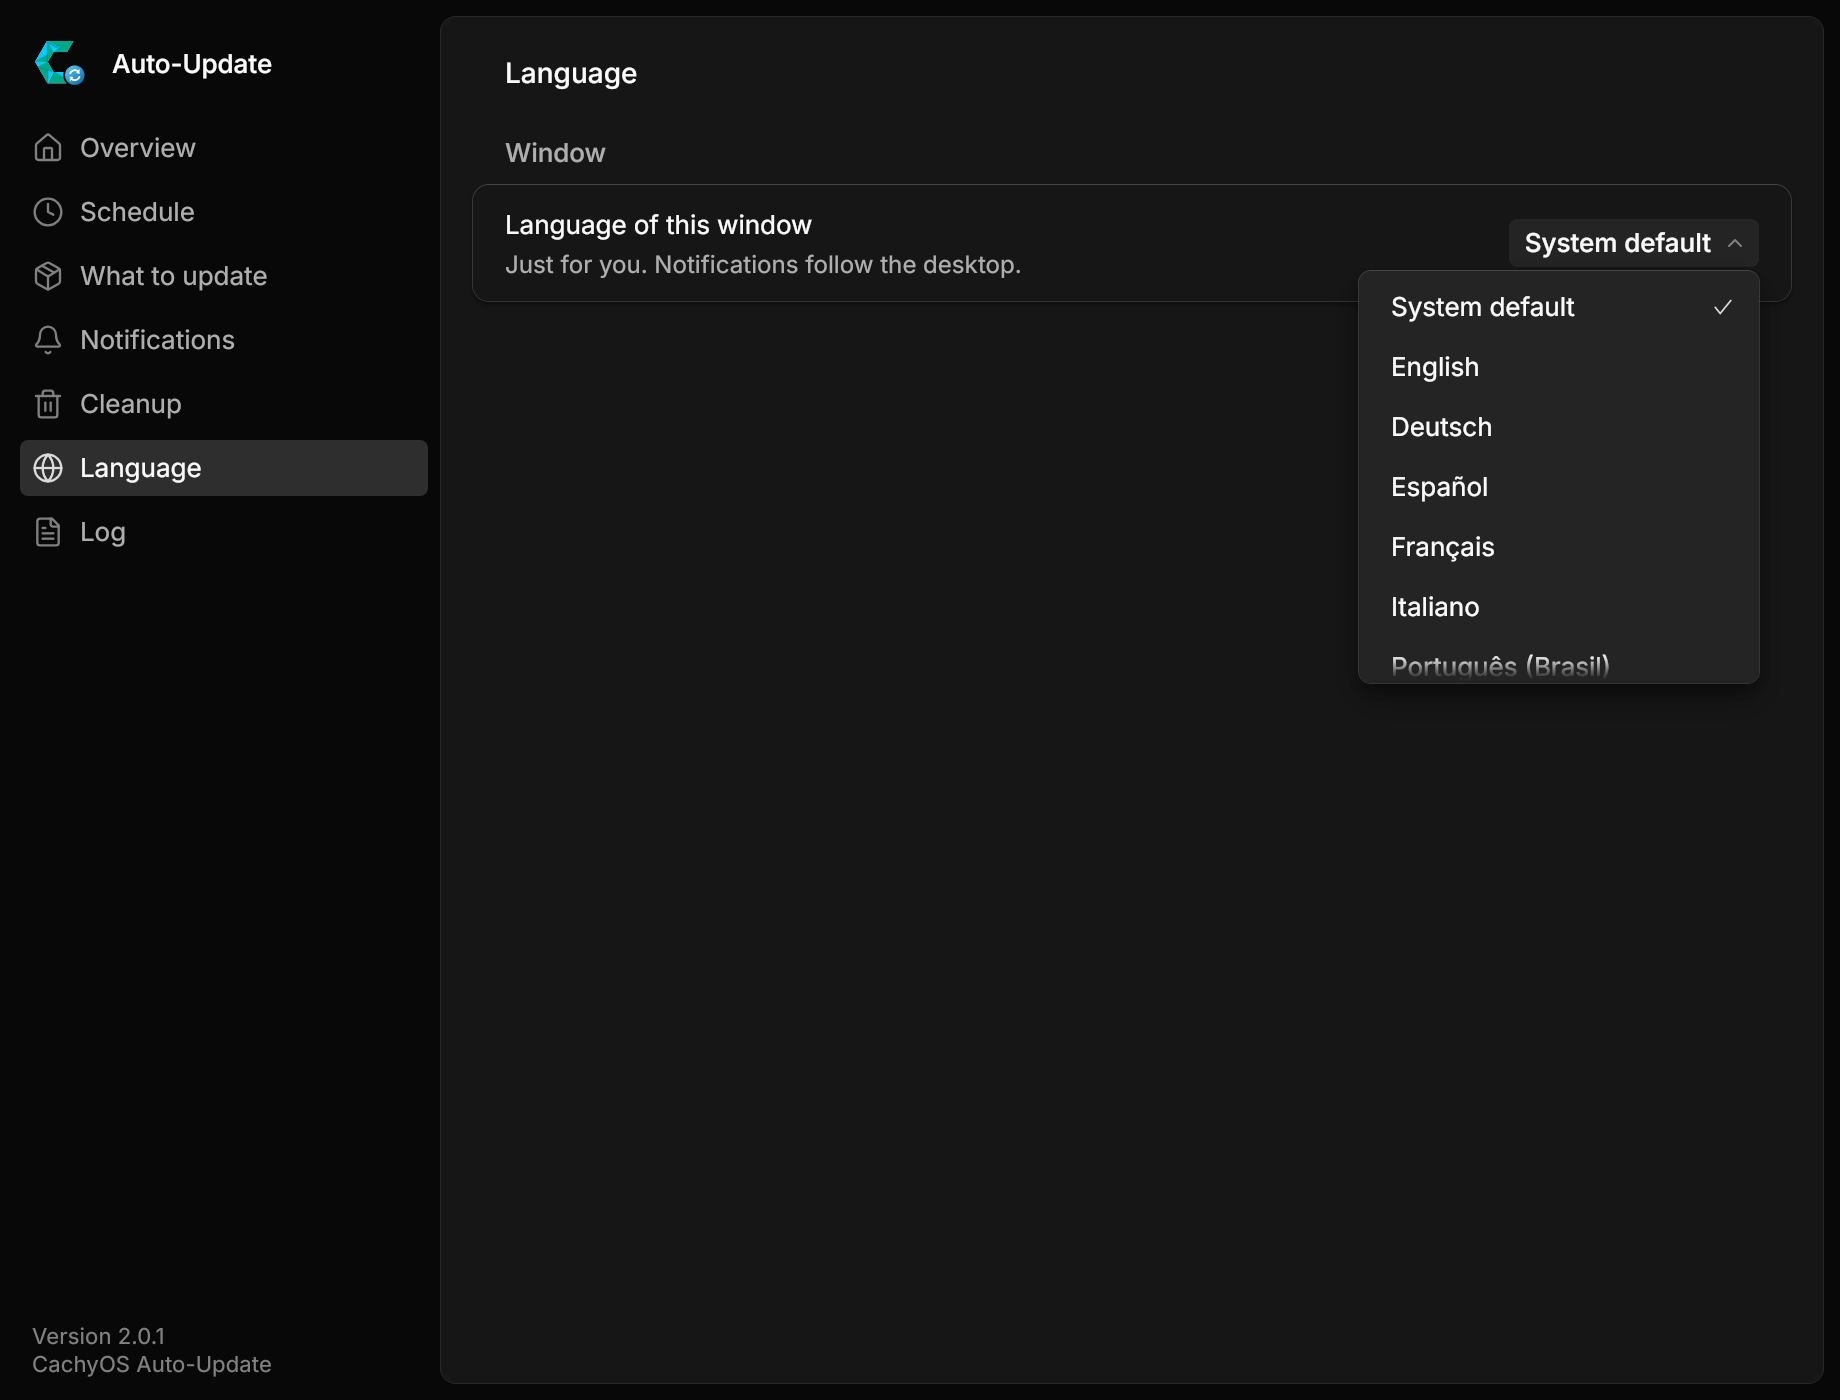
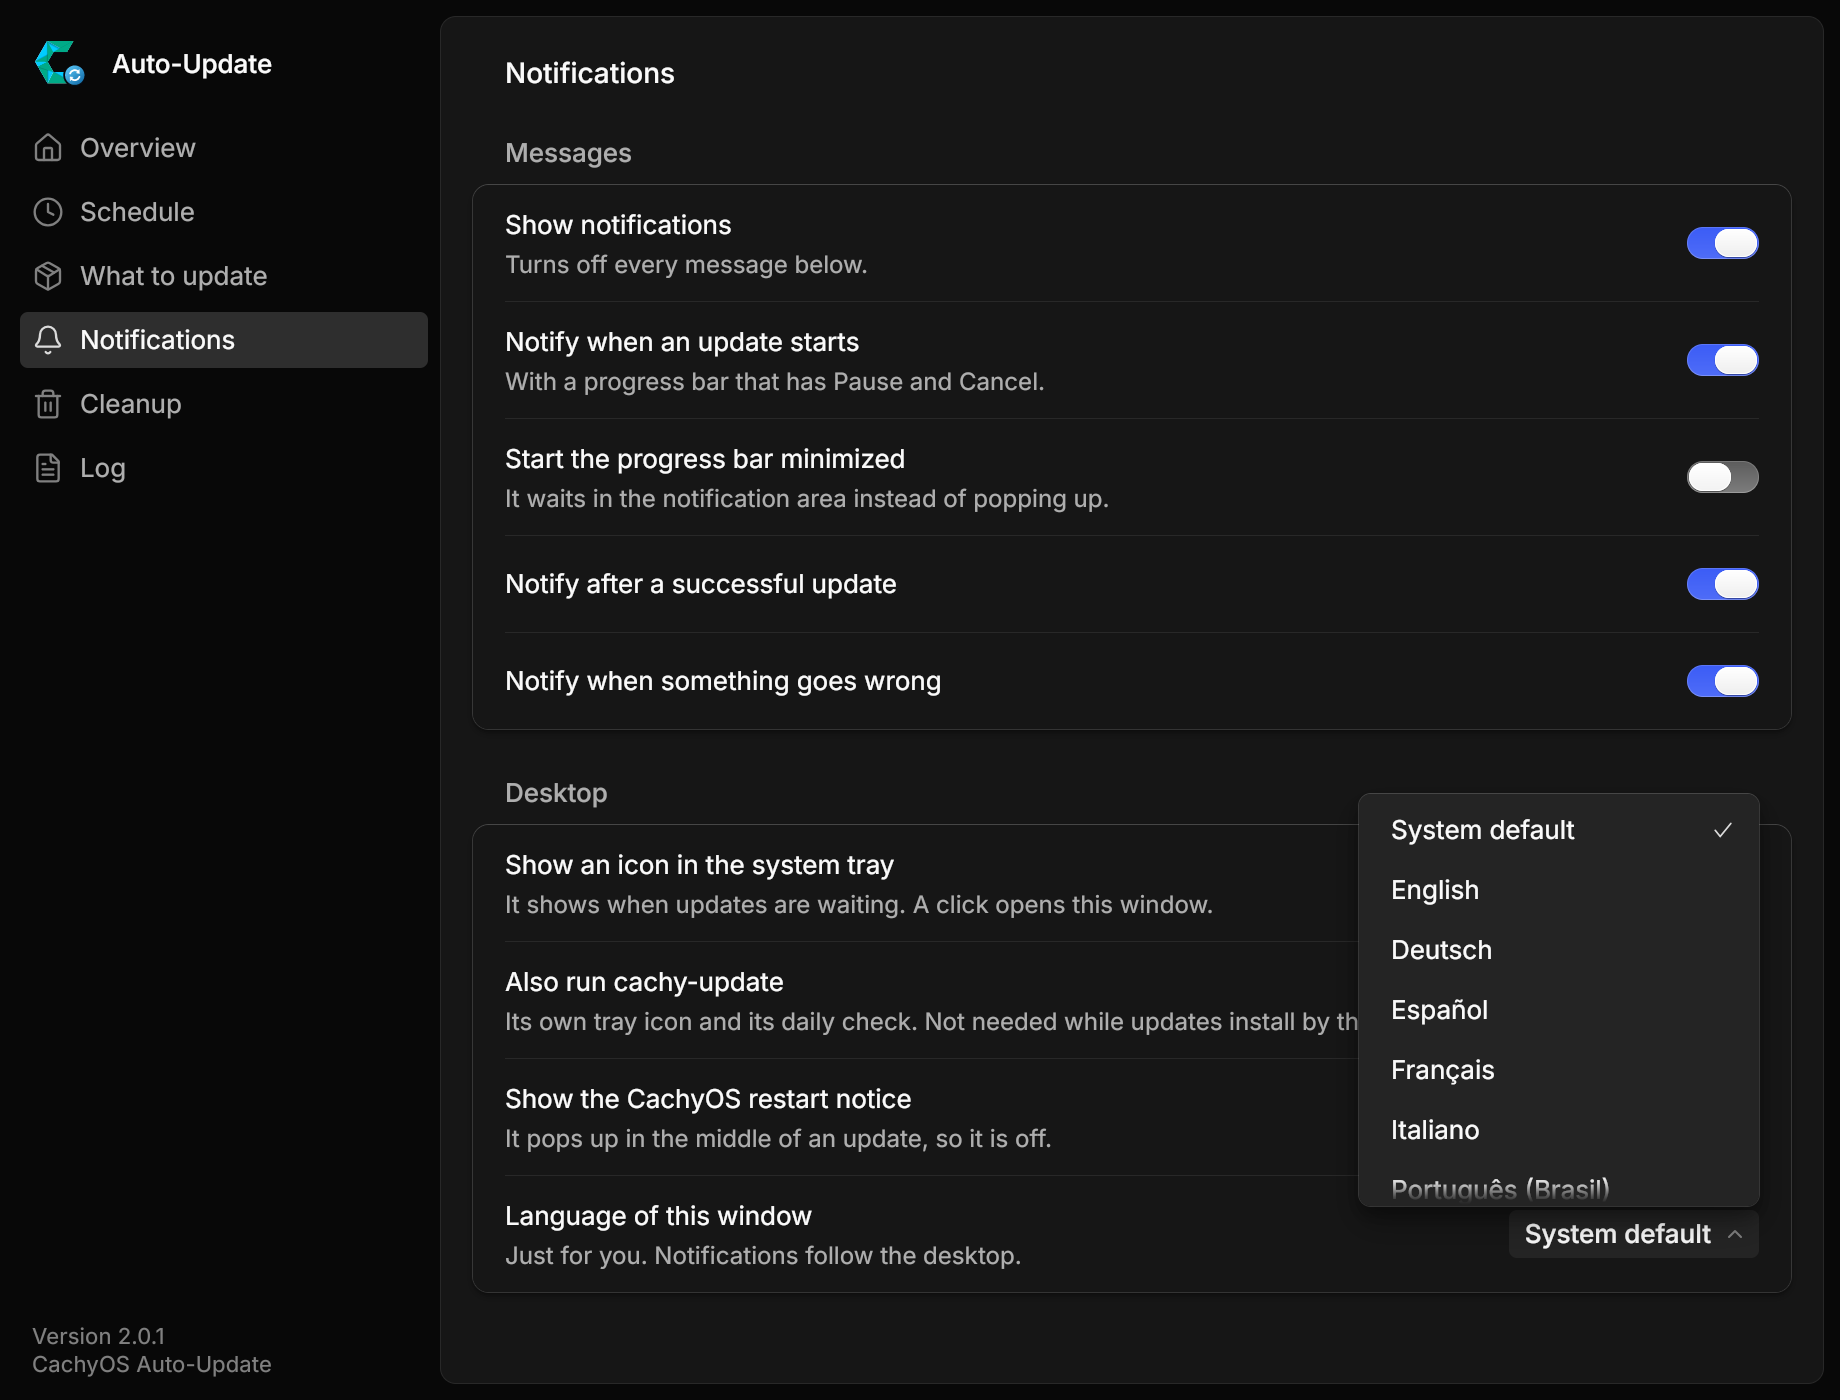
fix: polish the language picker

diff --git a/src/status.rs b/src/status.rs
@@ -187,13 +187,92 @@ pub fn interval_text(locale: &str, v: &str) -> String {
 /// A local date and time through strftime, in the locale LC_TIME names.
 /// Call `init_time_locale` once first.
 pub fn strftime(ts: u64, format: &str) -> String {
+    format_time(ts, format, None)
+}
+
+/// strftime in `locale`, or in the one LC_TIME names.
+fn format_time(ts: u64, format: &str, locale: Option<libc::locale_t>) -> String {
     let t = ts as libc::time_t;
     let mut tm: libc::tm = unsafe { std::mem::zeroed() };
     unsafe { libc::localtime_r(&t, &mut tm) };
     let Ok(fmt) = std::ffi::CString::new(format) else { return String::new() };
     let mut buf = [0u8; 128];
-    let n = unsafe { libc::strftime(buf.as_mut_ptr().cast(), buf.len(), fmt.as_ptr(), &tm) };
+    let (out, len, f) = (buf.as_mut_ptr().cast(), buf.len(), fmt.as_ptr());
+    let n = match locale {
+        Some(l) => unsafe { libc::strftime_l(out, len, f, &tm, l) },
+        None => unsafe { libc::strftime(out, len, f, &tm) },
+    };
     String::from_utf8_lossy(&buf[..n]).into_owned()
+}
+
+/// How the window shows dates.
+enum Dates {
+    /// In the locale of the environment.
+    Env,
+    /// In a locale of the language picked in the window.
+    Picked(libc::locale_t),
+    /// No locale of that language is installed: in numbers only, so the
+    /// weekday is not in another language.
+    Numbers,
+}
+
+// The locale is only used and freed with the lock held.
+unsafe impl Send for Dates {}
+
+static DATES: std::sync::Mutex<Dates> = std::sync::Mutex::new(Dates::Env);
+
+/// Shows dates in `lang` ("es", "pt_BR", ...) from now on, or in the locale
+/// of the environment again with `None`.
+pub fn set_date_language(lang: Option<&str>) {
+    let base = |l: &str| l.split(['_', '.', '@']).next().unwrap_or("").to_string();
+    let env = ["LC_ALL", "LC_TIME", "LANG"].iter().find_map(|v| std::env::var(v).ok().filter(|v| !v.is_empty()));
+    let env = env.map(|e| if e == "C" || e.starts_with("C.") || e == "POSIX" { "en".into() } else { base(&e) });
+    let dates = match lang {
+        None => Dates::Env,
+        // Keeps the region of the environment, es_MX for "es".
+        Some(l) if env.as_deref() == Some(base(l).as_str()) => Dates::Env,
+        Some(l) => date_locales(l)
+            .into_iter()
+            .find_map(|name| {
+                let name = std::ffi::CString::new(name).ok()?;
+                let loc = unsafe { libc::newlocale(libc::LC_TIME_MASK, name.as_ptr(), std::ptr::null_mut()) };
+                (!loc.is_null()).then_some(loc)
+            })
+            .map_or(Dates::Numbers, Dates::Picked),
+    };
+    let mut d = DATES.lock().unwrap_or_else(|e| e.into_inner());
+    if let Dates::Picked(old) = std::mem::replace(&mut *d, dates) {
+        unsafe { libc::freelocale(old) };
+    }
+}
+
+/// Locales to try for `lang`, most likely first.
+fn date_locales(lang: &str) -> Vec<String> {
+    let full = match lang {
+        "de" => "de_DE",
+        "en" => "en_US",
+        "es" => "es_ES",
+        "fr" => "fr_FR",
+        "it" => "it_IT",
+        "ja" => "ja_JP",
+        "ko" => "ko_KR",
+        "ru" => "ru_RU",
+        l => l,
+    };
+    let mut out = vec![format!("{full}.UTF-8")];
+    if lang == "en" {
+        out.push("C.UTF-8".into());
+    }
+    out
+}
+
+/// The weekday, date and time, for the window.
+pub fn date_time(ts: u64) -> String {
+    match *DATES.lock().unwrap_or_else(|e| e.into_inner()) {
+        Dates::Env => strftime(ts, "%a %x %H:%M"),
+        Dates::Picked(l) => format_time(ts, "%a %x %H:%M", Some(l)),
+        Dates::Numbers => strftime(ts, "%Y-%m-%d %H:%M"),
+    }
 }
 
 /// Dates follow the locale the program was started in.

diff --git a/gui/src/ui.rs b/gui/src/ui.rs
@@ -29,13 +29,11 @@ pub enum Pane {
     Updates,
     Notifications,
     Cleanup,
-    Language,
     Log,
 }
 
 impl Pane {
-    pub const ALL: [Pane; 7] =
-        [Pane::Overview, Pane::Schedule, Pane::Updates, Pane::Notifications, Pane::Cleanup, Pane::Language, Pane::Log];
+    pub const ALL: [Pane; 6] = [Pane::Overview, Pane::Schedule, Pane::Updates, Pane::Notifications, Pane::Cleanup, Pane::Log];
 
     pub fn title(self) -> &'static str {
         match self {
@@ -44,7 +42,6 @@ impl Pane {
             Pane::Updates => tr("What to update"),
             Pane::Notifications => tr("Notifications"),
             Pane::Cleanup => tr("Cleanup"),
-            Pane::Language => tr("Language"),
             Pane::Log => tr("Log"),
         }
     }
@@ -56,7 +53,6 @@ impl Pane {
             Pane::Updates => "nav-updates",
             Pane::Notifications => "nav-notifications",
             Pane::Cleanup => "nav-cleanup",
-            Pane::Language => "nav-language",
             Pane::Log => "nav-log",
         }
     }
@@ -69,7 +65,6 @@ impl Pane {
             Pane::Updates => &PACKAGE,
             Pane::Notifications => &BELL,
             Pane::Cleanup => &BROOM,
-            Pane::Language => &GLOBE,
             Pane::Log => &LOG,
         }
     }
@@ -81,7 +76,6 @@ impl Pane {
             "updates" => Pane::Updates,
             "notifications" => Pane::Notifications,
             "cleanup" => Pane::Cleanup,
-            "language" => Pane::Language,
             "log" => Pane::Log,
             _ => Pane::Overview,
         }
@@ -432,7 +426,7 @@ impl Ui {
         }
         lines.push(trf("Last update: %s", &[&status::time_ago(&cachy_auto_update::i18n::ui_locale(), self.status.last_success)]));
         match self.next {
-            Next::At(ts) => lines.push(trf("Next update: %s", &[&status::strftime(ts, "%a %x %H:%M")])),
+            Next::At(ts) => lines.push(trf("Next update: %s", &[&status::date_time(ts)])),
             _ if !self.cfg.enabled => lines.push(tr("Automatic updates are off.").into()),
             _ => {}
         }

diff --git a/src/i18n.rs b/src/i18n.rs
@@ -27,10 +27,11 @@ const NAMES: &[(&str, &str)] = &[
     ("zh_CN", "简体中文"),
 ];
 
-/// Shows the UI in `lang` ("es", "de_DE.UTF-8", ...) from now on, or in the
-/// language of the environment again with `None`.
+/// Shows the UI and its dates in `lang` ("es", "de_DE.UTF-8", ...) from now
+/// on, or in the language of the environment again with `None`.
 pub fn set_ui_language(lang: Option<&str>) {
     let lang = lang.map(str::trim).filter(|l| !l.is_empty()).map(String::from);
+    crate::status::set_date_language(lang.as_deref());
     *CHOSEN.write().unwrap_or_else(|e| e.into_inner()) = lang;
 }
 
@@ -198,14 +199,6 @@ mod tests {
     }
 
     #[test]
-    fn every_catalog_is_complete() {
-        let (_, de) = CATALOGS.iter().find(|(c, _)| *c == "de").unwrap();
-        for (lang, catalog) in CATALOGS {
-            assert_eq!(catalog.len(), de.len(), "{lang}");
-        }
-    }
-
-    #[test]
     fn every_translation_keeps_its_placeholders() {
         fn marks(s: &str) -> Vec<char> {
             let mut out = Vec::new();
@@ -231,6 +224,11 @@ mod tests {
         assert_eq!(ui_locale(), "es");
         set_ui_language(Some("en"));
         assert_eq!(tr("Settings"), "Settings");
+        let day = crate::status::date_time(0);
+        assert!(day.starts_with("Wed") || day.starts_with("Thu"), "{day}");
+        // No locale of it is installed: the date is in numbers only.
+        set_ui_language(Some("xx"));
+        assert!(crate::status::date_time(0).starts_with("19"));
         set_ui_language(None);
         assert_eq!(ui_language(), None);
     }

diff --git a/gui/src/language.rs b/gui/src/language.rs
@@ -2,7 +2,7 @@
 //! in ~/.config/cachy-auto-update/language; an empty or missing file means
 //! the language of the desktop.
 
-use crate::controls::{Paint, page, section, select_row_with};
+use crate::controls::{Paint, select_row_with};
 use crate::ui::Ui;
 use cachy_auto_update::i18n::{languages, tr};
 use rune::El;
@@ -32,25 +32,21 @@ pub fn save(lang: &str) -> std::io::Result<()> {
     std::fs::write(f, format!("{lang}\n"))
 }
 
-pub fn pane(ui: &Ui, p: Paint, layer: &mut Vec<El>) -> El {
+/// The row that picks it, on the Notifications page.
+pub fn row(ui: &Ui, p: Paint, layer: &mut Vec<El>) -> El {
     let mut choices = vec![(String::new(), tr("System default").to_string())];
     choices.extend(languages().into_iter().map(|(code, name)| (code.to_string(), name.to_string())));
-    page("language").child(section(
+    select_row_with(
+        ui,
         p,
-        "window",
-        tr("Window"),
-        vec![select_row_with(
-            ui,
-            p,
-            layer,
-            "Language",
-            tr("Language of this window"),
-            Some(tr("Just for you. Notifications follow the desktop.")),
-            ui.language.clone(),
-            choices,
-            |s, _, v| s.set_language(v),
-        )],
-    ))
+        layer,
+        "Language",
+        tr("Language of this window"),
+        Some(tr("Just for you. Notifications follow the desktop.")),
+        ui.language.clone(),
+        choices,
+        |s, _, v| s.set_language(v),
+    )
 }
 
 #[cfg(test)]

diff --git a/gui/src/overview.rs b/gui/src/overview.rs
@@ -55,7 +55,7 @@ fn hero(ui: &Ui, p: Paint, layer: &mut Vec<El>) -> El {
     let loc = ui_locale();
     let mut sub = vec![trf("Last update: %s", &[&status::time_ago(&loc, ui.status.last_success)])];
     match ui.next {
-        Next::At(ts) if ui.cfg.enabled => sub.push(trf("Next update: %s", &[&status::strftime(ts, "%a %x %H:%M")])),
+        Next::At(ts) if ui.cfg.enabled => sub.push(trf("Next update: %s", &[&status::date_time(ts)])),
         _ if !ui.cfg.enabled => sub.push(tr("Automatic updates are off.").into()),
         _ => {}
     }
@@ -306,7 +306,7 @@ fn conditions(ui: &Ui, p: Paint) -> El {
 fn last_update(ui: &Ui, p: Paint) -> El {
     let st = &ui.status;
     let when = if st.last_success > 0 {
-        status::strftime(st.last_success, "%a %x %H:%M")
+        status::date_time(st.last_success)
     } else {
         tr("never").to_string()
     };

diff --git a/gui/src/view.rs b/gui/src/view.rs
@@ -16,9 +16,8 @@ pub fn view(ui: &Ui, cx: &mut Cx<Ui>) -> El {
         Pane::Overview => (crate::overview::actions(ui, p), crate::overview::pane(ui, p, &mut layer)),
         Pane::Schedule => (vec![], crate::settings::schedule(ui, p, &mut layer)),
         Pane::Updates => (vec![], crate::settings::updates(ui, p, &mut layer)),
-        Pane::Notifications => (vec![], crate::settings::notifications(ui, p)),
+        Pane::Notifications => (vec![], crate::settings::notifications(ui, p, &mut layer)),
         Pane::Cleanup => (vec![], crate::settings::cleanup(ui, p, &mut layer)),
-        Pane::Language => (vec![], crate::language::pane(ui, p, &mut layer)),
         Pane::Log => (crate::log_pane::actions(ui, p), crate::log_pane::pane(ui, p)),
     };
     let body = if ui.pane == Pane::Log { body } else { scroll_body(p, body) };

diff --git a/gui/src/settings.rs b/gui/src/settings.rs
@@ -176,7 +176,7 @@ pub fn updates(ui: &Ui, p: Paint, layer: &mut Vec<El>) -> El {
         ))
 }
 
-pub fn notifications(ui: &Ui, p: Paint) -> El {
+pub fn notifications(ui: &Ui, p: Paint, layer: &mut Vec<El>) -> El {
     page("notifications")
         .child(section(
             p,
@@ -228,6 +228,7 @@ pub fn notifications(ui: &Ui, p: Paint) -> El {
                     tr("Show the CachyOS restart notice"),
                     Some(tr("It pops up in the middle of an update, so it is off.")),
                 ),
+                crate::language::row(ui, p, layer),
             ],
         ))
 }

diff --git a/gui/src/icons.rs b/gui/src/icons.rs
@@ -32,12 +32,6 @@ line_icon!(PACKAGE, "cau-package", [
     "M7.5 4.27l9 5.15",
 ]);
 
-line_icon!(GLOBE, "cau-globe", [
-    "M12 2a10 10 0 1 0 0 20a10 10 0 1 0 0-20z",
-    "M12 2a14.5 14.5 0 0 0 0 20a14.5 14.5 0 0 0 0-20",
-    "M2 12h20",
-]);
-
 line_icon!(BELL, "cau-bell", [
     "M10.268 21a2 2 0 0 0 3.464 0",
     "M3.262 15.326A1 1 0 0 0 4 17h16a1 1 0 0 0 .74-1.673C19.41 13.956 18 12.499 18 8A6 6 0 0 0 6 8c0 4.499-1.411 5.956-2.738 7.326",

diff --git a/gui/src/main.rs b/gui/src/main.rs
@@ -118,9 +118,8 @@ const SCENES: &[Scene] = &[
     ("notifications", |s| s.pane = Pane::Notifications),
     ("cleanup", |s| s.pane = Pane::Cleanup),
     ("log", |s| s.pane = Pane::Log),
-    ("language", |s| s.pane = Pane::Language),
-    ("language-menu", |s| {
-        s.pane = Pane::Language;
+    ("language", |s| {
+        s.pane = Pane::Notifications;
         s.open = Some("Language");
     }),
 ];

diff --git a/README.md b/README.md
@@ -117,12 +117,12 @@ stays in the notification area and does not pop up. Click the notification icon 
 ### Language
 
 The window speaks English, German, Spanish, French, Italian, Brazilian Portuguese, Russian, Japanese,
-Simplified Chinese and Korean. It follows the language of your desktop. To pick
-another one, open **Language** and choose it under **Language of this window**. It changes at once,
-also in the tray icon, and only for you.
+Simplified Chinese and Korean. It follows the language of your desktop. To pick another one, open
+**Notifications** and choose it under **Language of this window**. It changes at once, also in the
+tray icon, and only for you.
 
 <p align="center">
-  <img src="res/screenshots/language.png" alt="The Language page with its menu open, listing System default, English and the other languages by their own names" width="620">
+  <img src="res/screenshots/language.png" alt="The language menu on the Notifications page, listing System default, English and the other languages by their own names" width="620">
 </p>
 
 ### Command line
